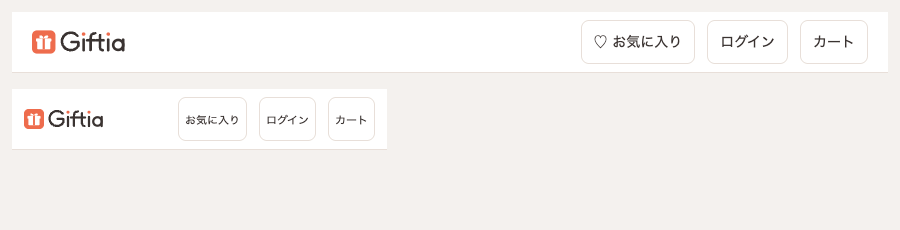
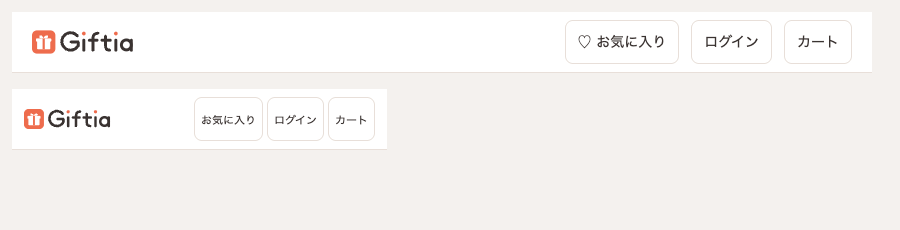
docs: ロゴの確定版（線 5.1）に差し替え（design/ の 4 ファイルと設計の値）（追記 21）

diff --git a/02_プロジェクト/giftia-ui-renewal/設計.md b/02_プロジェクト/giftia-ui-renewal/設計.md
@@ -249,7 +249,7 @@ LIMIT 2;
 - OGP 画像は 2 枚に分け、ページごとに `og:image`・`twitter:image`・タイトル・説明を出し分ける（PM 11/14「1で。分けることで進めて」）。どちらもヒーロー案 A から作った 1200×630 の PNG（SVG は多くのプレビューで出ないため PNG）。仕上げは `design/ogp-share.png`・`design/ogp-top.png`（Mi-rin 作。左下の帯にロゴ、床の帯は左右の端まで通る）。`twitter:card` は `summary_large_image`。
 - 共有ページ（`src/app/s/[share_id]/page.tsx` の固定の `metadata`）: 画像 `ogp-share.png`（「どれがいいと思う？／いいねで教えて。」）、`description` と `og:description` に「どれがいいと思う？いいねで教えて。」。タイトルは今どおり「Giftia の贈りもの候補」。DB も共有リンクの中身も読まないので、商品名は枠の HTML に入らない（N-15）。いいね（D-39）と同じ版で公開する。
 - トップとその他のページ（`src/app/layout.tsx` の `metadata`。共有ページは上で上書き）: 画像 `ogp-top.png`（今のヒーローの見出し「ありがとうに、ちょうどいいギフト。」と下の行「相手とシーンに合わせて、気持ちが伝わる贈りものを。」。`frontend/src/app/page.tsx` の文のまま）、タイトル「Giftia」（今どおり）、`description` と `og:description` に見出しと下の行をつないだ文（PM 11/15「今のサイトの見出しにしよう」）。
-- ロゴ: ロゴ（アイコン A ＋「Giftia」の文字。PM 11/15「アイコンをロゴにしよう。ヘッダーにも同じロゴを使おう」）。仕上げは `design/logo.svg`（Mi-rin 作。viewBox 162×48。文字は線で描いた図形でフォントに依存しない。**文字の太さは PM と相談中で、差し替えがありうる**）。OGP 画像 2 枚の同じ場所（左下の帯）に入れ、共通ヘッダー（D-25）の今のロゴ（`globals.css` の `.logo`、CSS のアイコン＋文字）を `<img src="/logo.svg" alt="Giftia">` に替え、`Link href="/"` で包む（押すとトップへ、は今どおり）。ヘッダーでの高さは 28px（480px 以下は 24px）、幅は自動（28px で約 95px）。押せる範囲は `min-height: 44px` を残す（N-12）。見本は `design/header-sample.png`。
+- ロゴ: ロゴ（アイコン A ＋「Giftia」の文字。PM 11/15「アイコンをロゴにしよう。ヘッダーにも同じロゴを使おう」）。仕上げは `design/logo.svg`（Mi-rin 作。viewBox 174.5×48。文字は太さ 5.1・丸い端の線で描いた図形でフォントに依存しない。「i」の点はアイコンのオレンジ、文字は焦げ茶 `#3a3331`。確定 PM 11/15「中間より少し細いで」）。OGP 画像 2 枚の同じ場所（左下の帯）に入れ、共通ヘッダー（D-25）の今のロゴ（`globals.css` の `.logo`、CSS のアイコン＋文字）を `<img src="/logo.svg" alt="Giftia">` に替え、`Link href="/"` で包む（押すとトップへ、は今どおり）。ヘッダーでの高さは 28px で幅約 102px（480px 以下は 24px で約 87px）。375px のヘッダーでロゴの右端と一番左のボタンの間は約 83px 空く。OGP 画像では左下の帯に高さ 46px・左 70px・下 19px（幅約 168px）で置く。押せる範囲は `min-height: 44px` を残す（N-12）。見本は `design/header-sample.png`。
 
 ### 見た目の直し（D-37）
 
@@ -946,5 +946,5 @@ LIMIT 3;
   - DB アカウントの作成・権限の設定: この設計は書くだけ。作成・設定はしていない。`giftia_app` は作らない（配られたアカウントに CREATE USER・GRANT が無く、運営のだーあさが承知。DB管理手順.md 穴4、#68・#70）。公開版も配られたアカウントでつなぎ、コードで縛る（D-13）。管理用アカウントは作らず、`share_links` の作成・削除は配られたアカウントで手で行う（B2 #56）。
   - API のパス・入出力・エラーコードは設計案（仕様は「設計で決める」）。実装計画の承認時に合わせて承認が要る。
 - 未決（仕様に書かれていない点。自分で埋めずに残す）: 上の「残る未決」の表は、なし（J は #76 で決定に移した。N・O は #71 で閉じた。M は #65 で、未決 K・L は #41 で、1・2・E・I は #54 で閉じた）（R2-1〜15 は閉じた。R2-4 は #54、R2-15 は #55 で閉じた）（未決 F は #36 で、G は N-09 で、H は #37 で閉じた）。
-- 第2弾の未決: なし。確定（PM 11/15）: 落とす順番は作らない（ADR-010）、速さ（N-03 の K-10）、768px の空きは今のまま、下の行の改行（D-37）。確定（PM 11/15「賛成」）: 外部キーを張らないこと（D-38・D-40）、計測は各段を通った訪問の数を数え段の順番は見ないこと、記録の追加に上限を置かないこと（D-40・D-41）。PM の未決はロゴの形の確認だけ。確定（PM 11/14）: 回数の数え方と R-01 の並び（D-34）、いいねの上限 30（D-39）、似た商品（D-42）、接続 3〜4 本（D-45）、アイコン・ヒーロー・OGP は案 A（D-36・D-37）。確定（PM 11/15）: 見出しは今の文のまま、ロゴ（アイコン A＋「Giftia」）を OGP 2 枚とヘッダーに使う（D-36）。`DB管理手順.md` に足す手順（表の作成 2 本・期限切れのいいねの削除・計測の削除）は、5 文書の外なのでこの PR に入れていない（PM・Terao が足す）。
+- 第2弾の未決: なし。確定（PM 11/15）: 落とす順番は作らない（ADR-010）、速さ（N-03 の K-10）、768px の空きは今のまま、下の行の改行（D-37）。確定（PM 11/15「賛成」）: 外部キーを張らないこと（D-38・D-40）、計測は各段を通った訪問の数を数え段の順番は見ないこと、記録の追加に上限を置かないこと（D-40・D-41）。PM の未決は無い（ロゴは PM 11/15 に確定）。残る案は R2・R9 の画面（PM の確認待ち）。確定（PM 11/14）: 回数の数え方と R-01 の並び（D-34）、いいねの上限 30（D-39）、似た商品（D-42）、接続 3〜4 本（D-45）、アイコン・ヒーロー・OGP は案 A（D-36・D-37）。確定（PM 11/15）: 見出しは今の文のまま、ロゴ（アイコン A＋「Giftia」）を OGP 2 枚とヘッダーに使う（D-36）。`DB管理手順.md` に足す手順（表の作成 2 本・期限切れのいいねの削除・計測の削除）は、5 文書の外なのでこの PR に入れていない（PM・Terao が足す）。
 - 関連ADR: ADR-002（R-01 先行）、ADR-003（既存の列だけ）、ADR-004（外部公開。#65 で承認済み）、ADR-005（ログインは本番に作らない）、ADR-007（第2弾の日程）、ADR-008（贈った人の声）
